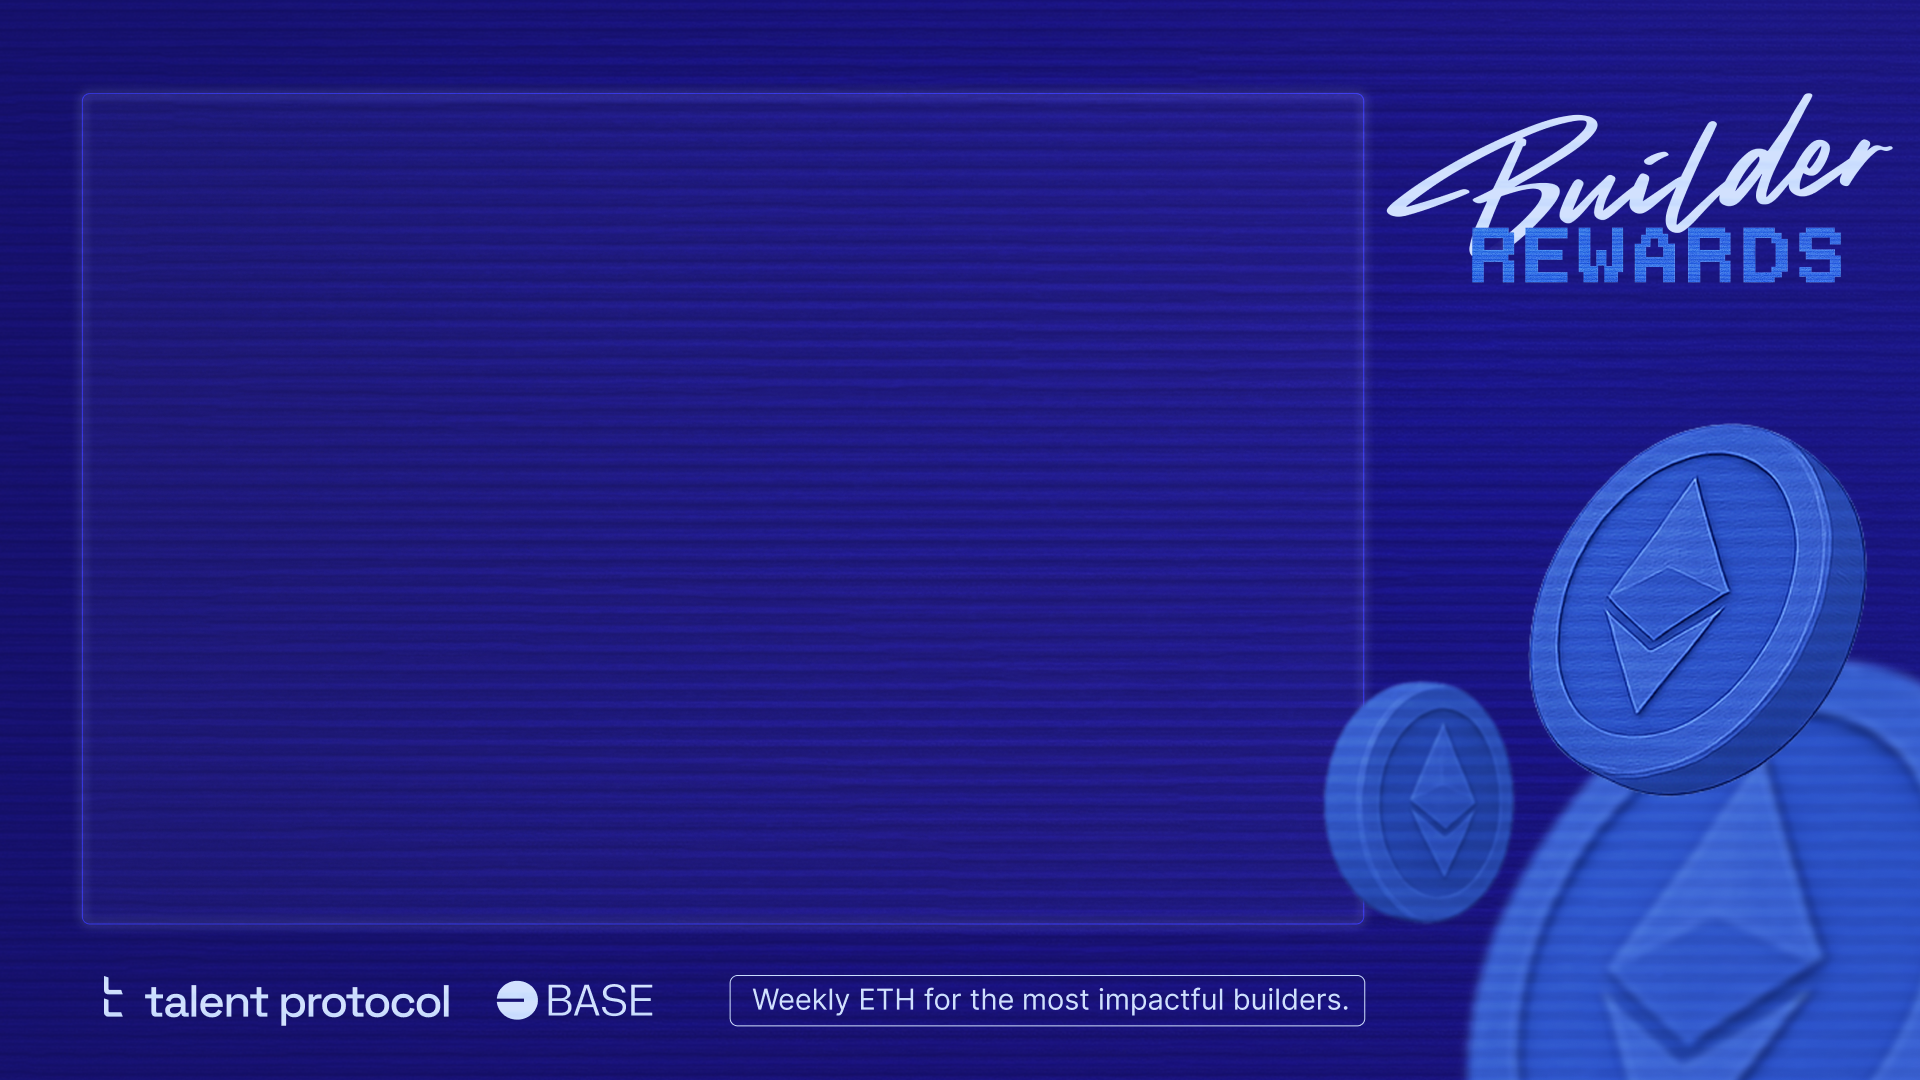
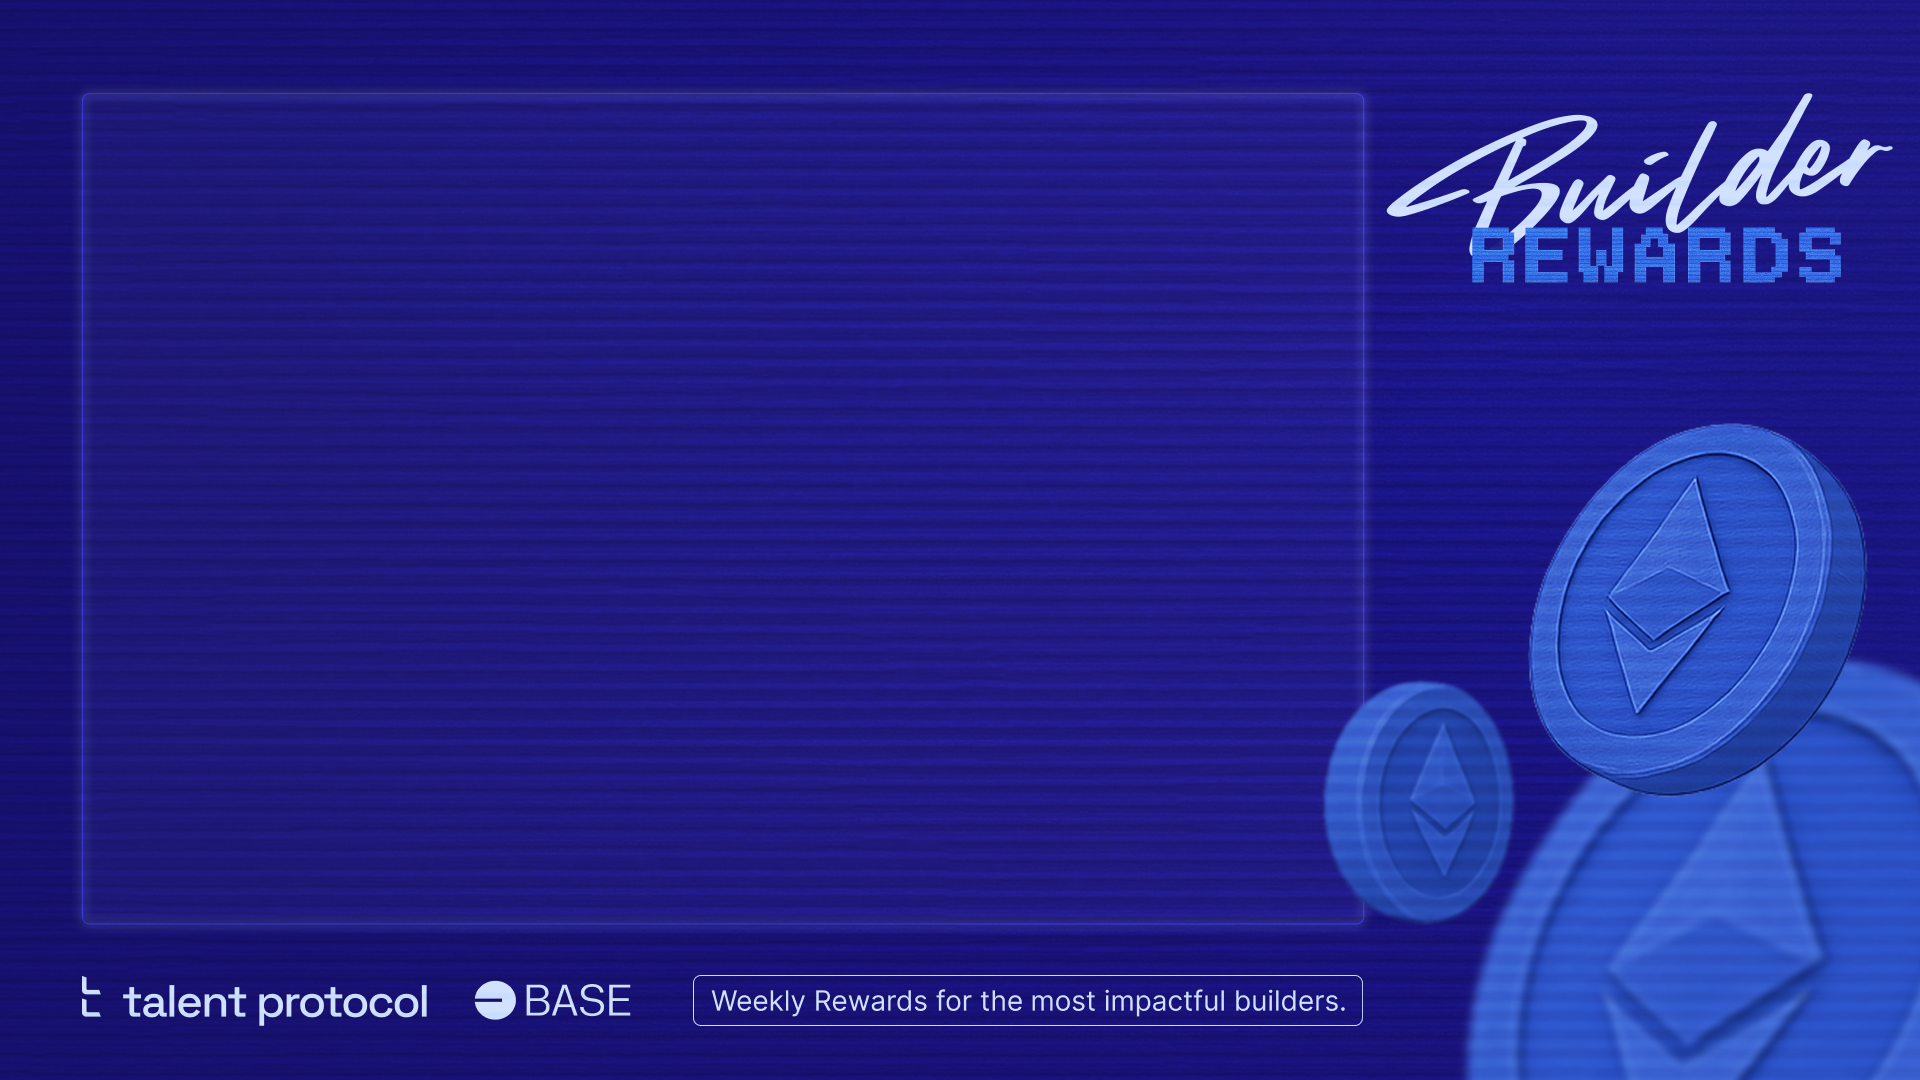
Compose cast.

Changed region(s): [[0.0312, 0.8861, 0.3438, 0.9472], [0.375, 0.9167, 0.7188, 0.9472]]

diff --git a/app/components/ShareableLeaderboard.tsx b/app/components/ShareableLeaderboard.tsx
@@ -7,6 +7,9 @@ import { useState } from "react";
 import Image from "next/image";
 import { useTheme } from "@/app/context/ThemeContext";
 import { useUser } from "@/app/context/UserContext";
+import { useLeaderboard } from "@/app/context/LeaderboardContext";
+import { useGrant } from "@/app/context/GrantContext";  
+import { sdk } from "@farcaster/frame-sdk";
 
 export default function ShareableLeaderboard({
   id,
@@ -19,6 +22,8 @@ export default function ShareableLeaderboard({
 }) {
   const { isDarkMode } = useTheme();
   const { frameContext } = useUser();
+  const { userLeaderboard } = useLeaderboard();
+  const { selectedGrant } = useGrant();
   const [open, setOpen] = useState(false);
 
   const params = new URLSearchParams({
@@ -26,19 +31,19 @@ export default function ShareableLeaderboard({
     ...(sponsor_slug && { sponsor_slug }),
   });
 
+  const shareSummary = `:\n\n${userLeaderboard?.summary}`;
+  const shareText = `I'm #${userLeaderboard?.leaderboard_position} on this week's ${selectedGrant?.sponsor.name} Builder Rewards and I've just earned ${userLeaderboard?.reward_amount} ${selectedGrant?.token_ticker}${userLeaderboard?.summary && userLeaderboard?.summary !== "" ? shareSummary : ""}`;
+
   const url = `/api/leaderboards/${id}/shareable?${params.toString()}`;
   const shareUrl = `${process.env.NEXT_PUBLIC_BUILDER_REWARDS_URL}/share/${grant_id}/${id}`;
 
   const handleShare = async () => {
     if (frameContext) {
-      // TODO: composeCast is not available in the SDK yet
-      // sdk.actions.ready();
-      // await sdk.actions.composeCast({
-      //   text: "Check out this Builder Rewards leaderboard!",
-      //   embeds: [shareUrl],
-      // });
-
-      setOpen(true);
+      sdk.actions.ready();
+      await sdk.actions.composeCast({
+        text: shareText,
+        embeds: [shareUrl],
+      });
     } else {
       setOpen(true);
     }

diff --git a/app/layout.tsx b/app/layout.tsx
@@ -33,10 +33,10 @@ const frame = {
 
 export const metadata: Metadata = {
   title: "Builder Rewards",
-  description: "Ship, Earn, Repeat.",
+  description: "Weekly Rewards for the most impactful builders.",
   openGraph: {
     title: "Builder Rewards",
-    description: "Ship, Earn, Repeat.",
+    description: "Weekly Rewards for the most impactful builders.",
     images: [
       {
         url: "https://www.builderscore.xyz/images/frame-image.png",

diff --git a/app/context/UserContext.tsx b/app/context/UserContext.tsx
@@ -4,7 +4,7 @@ import { createContext, useContext, useEffect, useState } from "react";
 import { TalentProfile } from "@/app/types/talent";
 import { fetchUserByFid } from "@/app/services/talent";
 import { FrameContext } from "@/app/types/farcaster";
-import sdk from "@farcaster/frame-sdk";
+import { sdk } from "@farcaster/frame-sdk";
 
 const DEV_FRAME_CONTEXT: FrameContext = {
   user: {

diff --git a/app/components/WarpcastBanner.tsx b/app/components/WarpcastBanner.tsx
@@ -67,7 +67,7 @@ export default function WarpcastBanner() {
               isDarkMode ? "text-neutral-500" : "text-neutral-500"
             }`}
           >
-            Ship, Earn, Repeat.
+            Weekly Rewards for the most impactful builders.
           </p>
         </div>
         <Link

diff --git a/app/components/ExternalLink.tsx b/app/components/ExternalLink.tsx
@@ -1,6 +1,6 @@
 import { ReactNode } from "react";
 import Link from "next/link";
-import sdk from "@farcaster/frame-sdk";
+import { sdk } from "@farcaster/frame-sdk";
 import { useUser } from "@/app/context/UserContext";
 
 interface ExternalLinkProps {

diff --git a/app/lib/connector.ts b/app/lib/connector.ts
@@ -1,4 +1,4 @@
-import sdk from "@farcaster/frame-sdk";
+import { sdk } from "@farcaster/frame-sdk";
 import { SwitchChainError, fromHex, getAddress, numberToHex } from "viem";
 import { ChainNotConfiguredError, createConnector } from "wagmi";
 

diff --git a/README.md b/README.md
@@ -1,8 +1,8 @@
 # Builder Rewards
 
-Ship, Earn, Repeat.
+Weekly Rewards for the most impactful builders.
 
-> Builder Grants is a real-time, automated rewards engine designed to recognize and incentivize top Builders in the Base ecosystem. By tracking onchain deployments, GitHub activity, and overall Builder impact, we ensure that the most valuable contributors are rewarded every week—no applications, no posting, just shipping.
+> Builder Rewards is a real-time, automated rewards engine designed to recognize and incentivize top Builders in the Base ecosystem. By tracking onchain deployments, GitHub activity, and overall Builder impact, we ensure that the most valuable contributors are rewarded every week—no applications, no posting, just shipping.
 
 ## Getting Started
 
